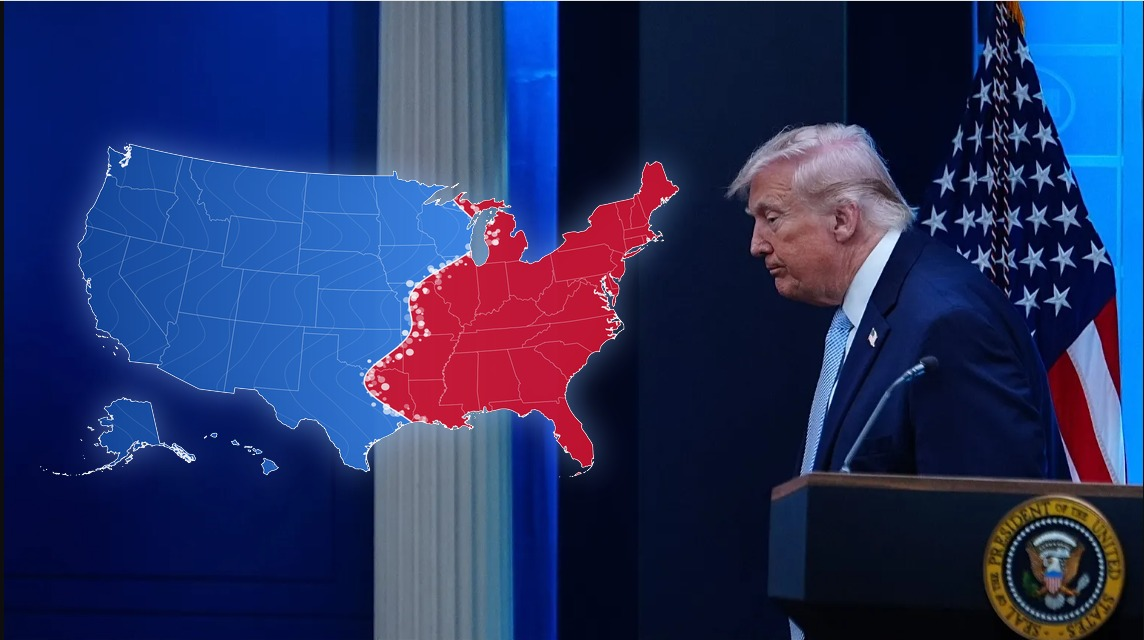
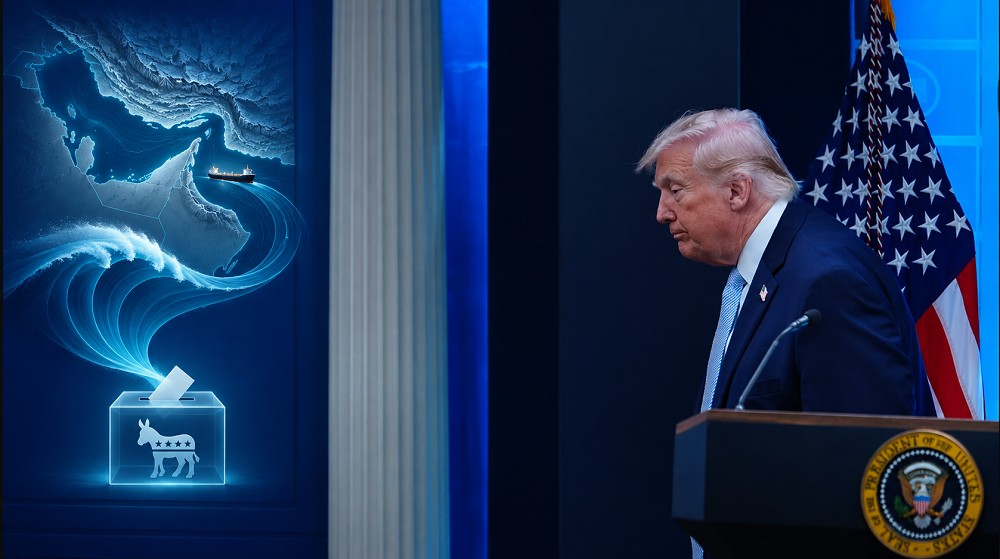
Analysis: new featured image for war with Iran and the US midterms
Claude-Session: https://claude.ai/code/session_01QW39sZ4M6HjVm9kEFiFDoD

diff --git a/content/analyses/iran-war-us-midterms-2026-ar.md b/content/analyses/iran-war-us-midterms-2026-ar.md
@@ -13,7 +13,7 @@ focus_keyword: الحرب مع إيران
 seo_title: الحرب مع إيران؛ كيف ساهمت في هزيمة حزب ترامب؟
 meta_description: كيف ساهمت الحرب مع إيران، من اضطراب هرمز إلى ارتفاع أسعار الوقود، في الموجة الزرقاء وخسارة الجمهوريين في انتخابات التجديد النصفي في ٣ نوفمبر؟
 image: /assets/uploads/iran-war-us-midterms-2026.jpg
-image_alt: ترامب في البيت الأبيض وخريطة الولايات المتحدة تجتاحها الموجة الزرقاء للديمقراطيين
+image_alt: ترامب في البيت الأبيض وموجة تمتد من مضيق هرمز إلى صندوق اقتراع الديمقراطيين
 translated: true
 draft: false
 ---

diff --git a/content/analyses/iran-war-us-midterms-2026-fa.md b/content/analyses/iran-war-us-midterms-2026-fa.md
@@ -13,7 +13,7 @@ focus_keyword: جنگ با ایران
 seo_title: جنگ با ایران چگونه به شکست حزب ترامپ دامن زد؟
 meta_description: جنگ با ایران از اختلال در هرمز تا گرانی بنزین، چگونه به شکست جمهوری خواهان و موج آبی دموکرات ها در انتخابات میان دوره ای ۳ نوامبر کمک کرد؟
 image: /assets/uploads/iran-war-us-midterms-2026.jpg
-image_alt: ترامپ در کاخ سفید و نقشه آمریکا با موج آبی دموکرات ها
+image_alt: ترامپ در کاخ سفید و موجی از تنگه هرمز که به صندوق رای دموکرات ها می رسد
 translated: false
 draft: false
 ---

diff --git a/content/analyses/iran-war-us-midterms-2026-en.md b/content/analyses/iran-war-us-midterms-2026-en.md
@@ -13,7 +13,7 @@ focus_keyword: war with Iran
 seo_title: 'War With Iran: How It Hurt Trump''s Party in the Midterms'
 meta_description: How the war with Iran, from Hormuz disruption to higher gas prices, fed the Democratic blue wave and Republican losses in the November 3 midterm elections.
 image: /assets/uploads/iran-war-us-midterms-2026.jpg
-image_alt: Trump at the White House beside a map of the US swept by a Democratic blue wave
+image_alt: Trump at the White House beside a wave flowing from the Strait of Hormuz into a Democratic ballot box
 translated: true
 draft: false
 ---
